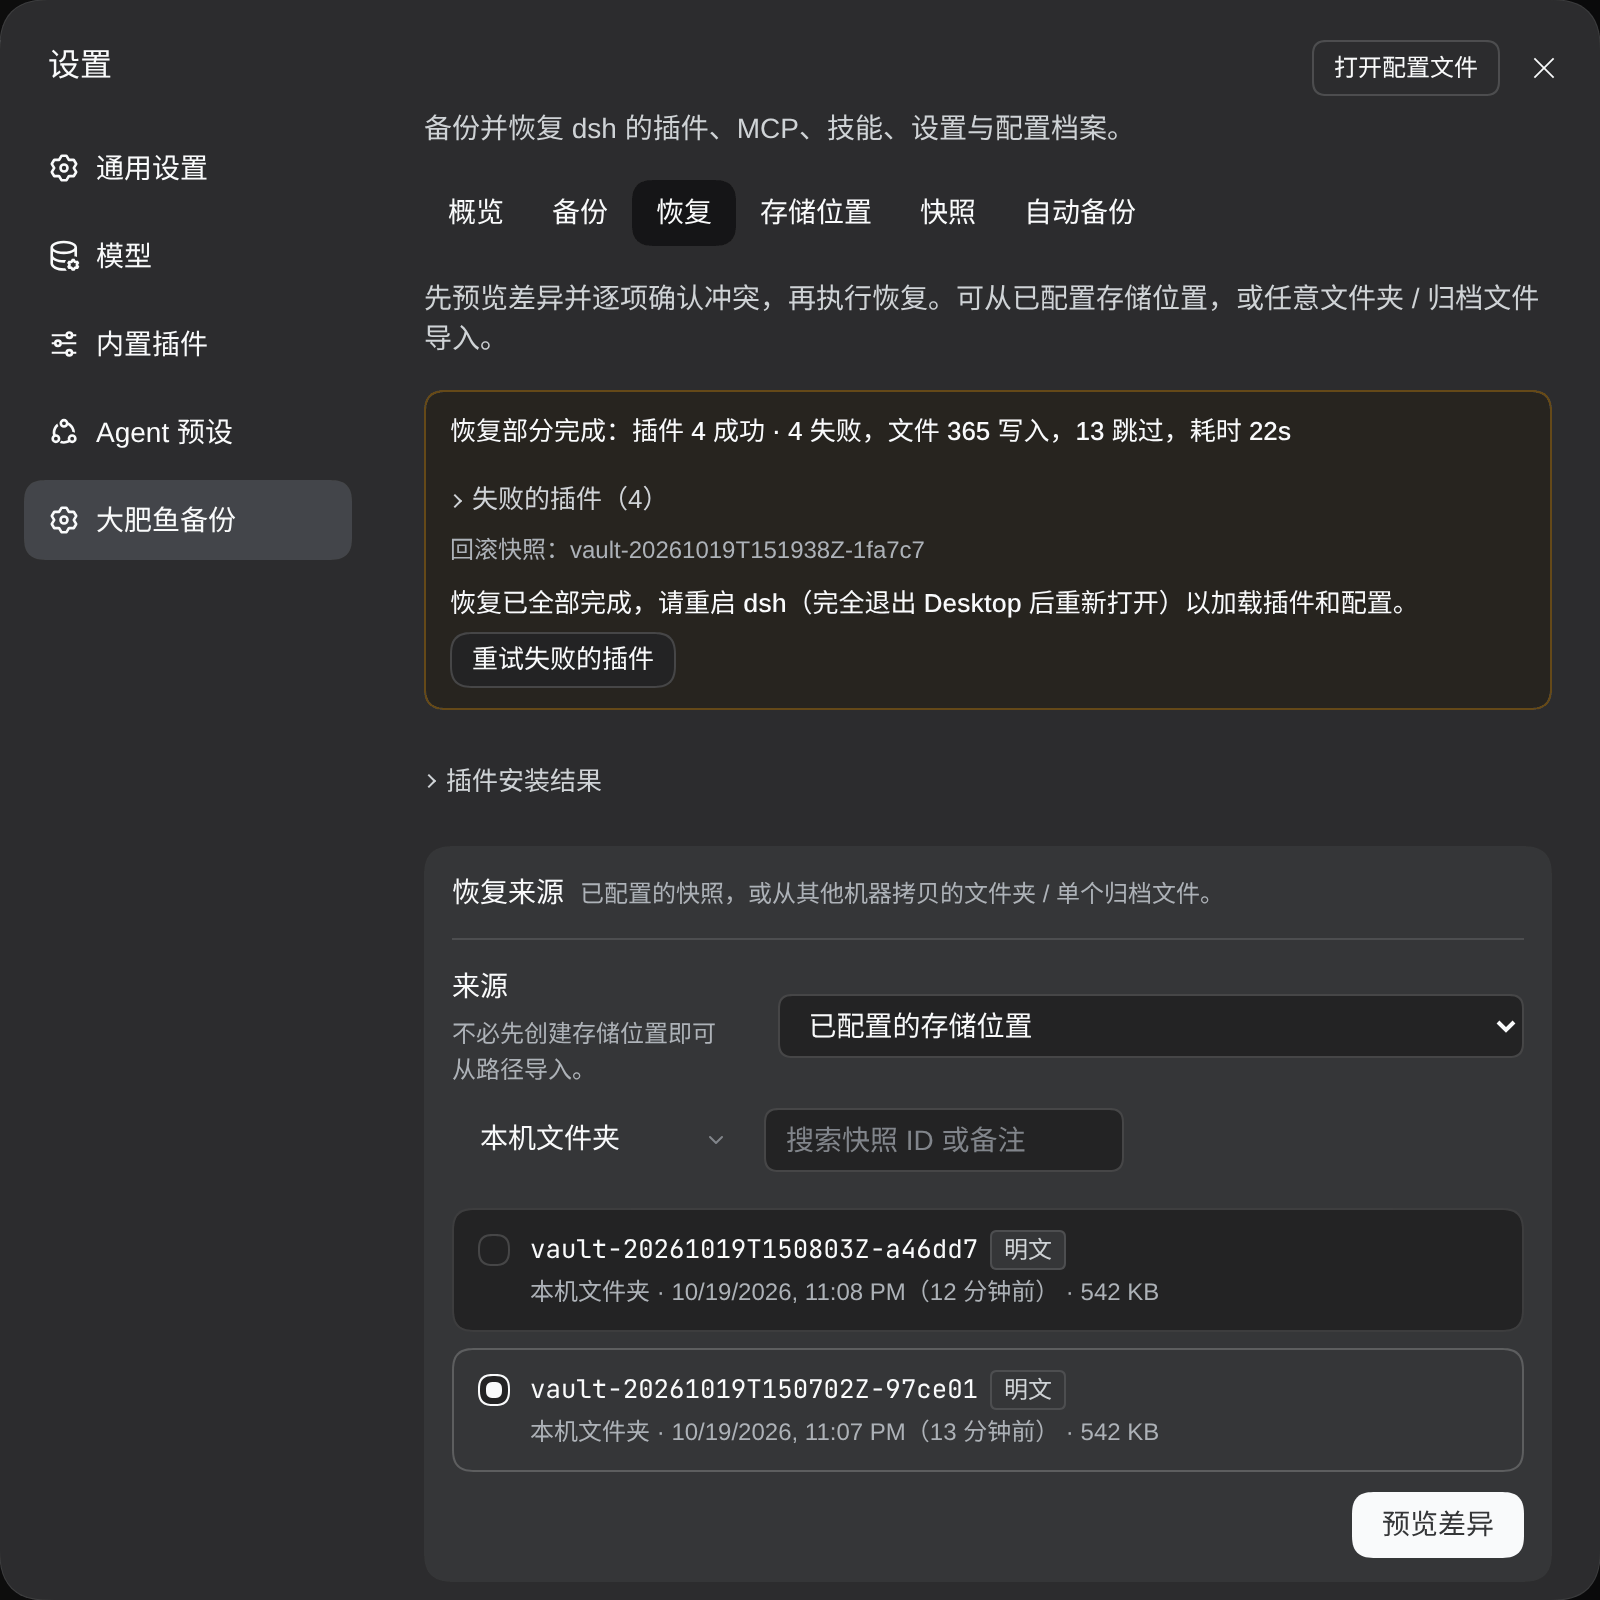
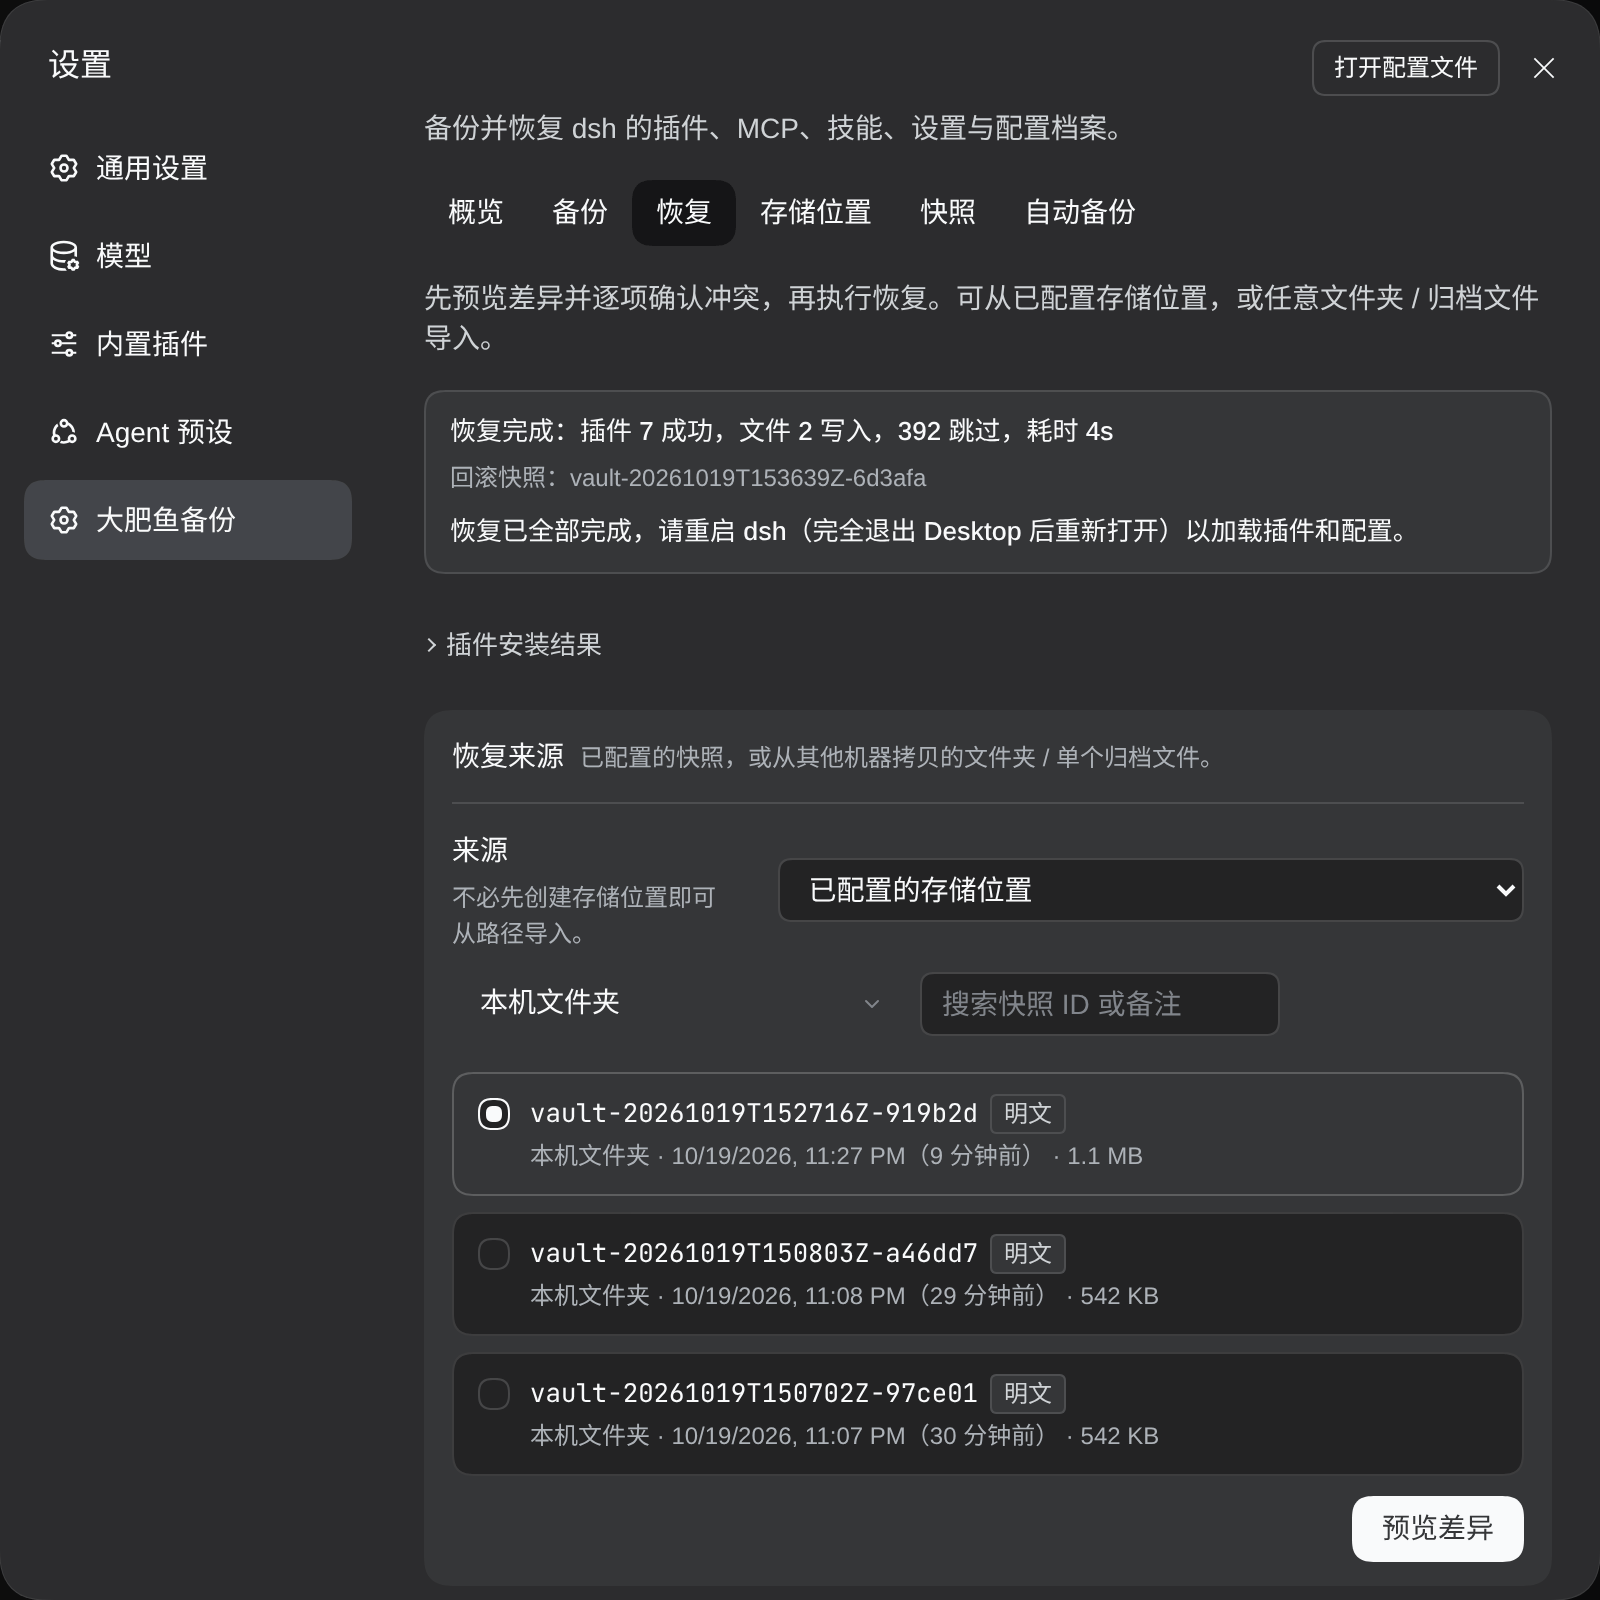
Restart notice by restore outcome (full/partial/failed); restore filter no longer defaults to rollback snapshots; full-success and partial screenshots

diff --git a/src/client/components/RestorePanel.tsx b/src/client/components/RestorePanel.tsx
@@ -3,6 +3,7 @@ import type { ConflictStrategy, DiffItem, RestorePreview, RestoreResult, Snapsho
 import { useT, type Translate } from '../i18n.js'
 import { formatBytes, formatDateTime, relativeLabel } from '../lib/format.js'
 import { newestFirst } from '../lib/targets.js'
+const ROLLBACK_TARGET_ID = 'local-rollback'
 import { localizeNotice, pluginRawDetail, pluginReasonText } from '../notices.js'
 import { PathPicker, type FsBrowser } from './PathPicker.js'
 import { DiffGroups } from './DiffGroups.js'
@@ -152,16 +153,21 @@ export function RestorePanel({
   const targetLabel = (id: string): string => targets.find((t) => t.id === id)?.label ?? id
   const usingImport = sourceMode === 'import'
 
-  // Keep the target filter valid.
+  // Keep the target filter valid. "" (all locations) is a valid user choice; only the
+  // first default skips rollback snapshots so the newest real backup is preselected.
+  const filterInit = useRef(false)
   useEffect(() => {
-    if (usingImport) return
-    if (!targetId || !snapshots.some((s) => s.targetId === targetId)) {
-      const preferred = initialTargetId && snapshots.some((s) => s.targetId === initialTargetId)
-        ? initialTargetId
-        : snapshots[0]?.targetId ?? ''
-      setTargetId(preferred)
-    }
+    if (usingImport || !snapshots.length) return
+    if (filterInit.current && (targetId === '' || snapshots.some((s) => s.targetId === targetId))) return
+    filterInit.current = true
+    const has = (id?: string) => Boolean(id) && snapshots.some((s) => s.targetId === id)
+    const realFirst = [...snapshots].sort(newestFirst).find((s) => s.targetId !== ROLLBACK_TARGET_ID)
+    setTargetId(has(initialTargetId) ? initialTargetId! : realFirst?.targetId ?? '')
   }, [snapshots, targetId, initialTargetId, usingImport])
+  const extraTargetIds = useMemo(
+    () => [...new Set(snapshots.map((s) => s.targetId))].filter((id) => !targets.some((t) => t.id === id)),
+    [snapshots, targets],
+  )
 
   const filtered = useMemo(() => {
     const q = search.trim().toLowerCase()
@@ -352,6 +358,9 @@ export function RestorePanel({
                 <option value="">{tr('common.allTargets')}</option>
                 {targets.map((t) => (
                   <option key={t.id} value={t.id}>{t.label}</option>
+                ))}
+                {extraTargetIds.map((id) => (
+                  <option key={id} value={id}>{id === ROLLBACK_TARGET_ID ? tr('restore.rollbackTarget') : id}</option>
                 ))}
               </Select>
               <div style={{ width: 180 }}>

diff --git a/tests/restart-notice.test.ts b/tests/restart-notice.test.ts
@@ -1,0 +1,42 @@
+import { describe, it } from 'node:test'
+import assert from 'node:assert/strict'
+import { restartNotice } from '../src/client/restart-notice.js'
+import { translate } from '../src/client/i18n.js'
+import type { RestoreResult } from '../src/core/types.js'
+
+const base = (over: Partial<RestoreResult>): RestoreResult => ({ ok: true, applied: [], skipped: [], ...over }) as RestoreResult
+const row = (name: string, status: string) => ({ name, profile: 'desktop', status }) as never
+
+function text(lang: 'zh' | 'en', r: RestoreResult): string | null {
+  const n = restartNotice(r)
+  return n ? translate(lang, n.key, n.vars) : null
+}
+
+describe('restart notice by restore outcome', () => {
+  it('full success says fully finished', () => {
+    const r = base({ applied: ['a'] as never, pluginResults: [row('a', 'installed'), row('b', 'already-present')] })
+    assert.equal(text('zh', r), '恢复已全部完成，请重启 dsh（完全退出 Desktop 后重新打开）以加载插件和配置。')
+    assert.match(text('en', r)!, /fully finished/)
+  })
+  it('partial names the failure count and never says fully finished', () => {
+    const r = base({ ok: false, applied: ['a', 'b'] as never, pluginResults: [row('a', 'installed'), row('b', 'failed'), row('c', 'failed')] })
+    const zh = text('zh', r)!
+    assert.equal(zh, '恢复已结束，有 2 个插件安装失败。请重启 dsh（完全退出 Desktop 后重新打开）以加载已恢复的插件和配置；失败的插件可在下方重试。')
+    assert.doesNotMatch(zh, /全部完成/)
+    assert.match(text('en', r)!, /2 plugin\(s\) failed/)
+    assert.doesNotMatch(text('en', r)!, /fully/)
+  })
+  it('all plugins failed but files written is still partial', () => {
+    const r = base({ ok: false, applied: ['x'] as never, pluginResults: [row('a', 'failed')] })
+    assert.equal(restartNotice(r)?.key, 'summary.restartPartial')
+  })
+  it('aborted with files written mentions files and rollback', () => {
+    const r = base({ ok: false, applied: ['x', 'y', 'z'] as never })
+    assert.match(text('zh', r)!, /已写入 3 个文件.*回滚/)
+    assert.match(text('en', r)!, /3 file\(s\) were already written.*rollback/)
+  })
+  it('nothing restored shows no restart prompt', () => {
+    assert.equal(restartNotice(base({ ok: false })), null)
+    assert.equal(restartNotice(base({ ok: false, pluginResults: [row('a', 'failed')] })), null)
+  })
+})

diff --git a/src/client/i18n.ts b/src/client/i18n.ts
@@ -44,6 +44,7 @@ const zh = {
   'common.delete': '删除',
   'common.default': '默认',
   'common.allTargets': '全部存储位置',
+  'restore.rollbackTarget': '回滚快照（恢复前自动生成）',
   'common.target': '存储位置',
   'common.snapshot': '快照',
   'common.size': '大小',
@@ -281,6 +282,8 @@ const zh = {
   'job.stage.restore.encrypt': '加密',
   'job.stage.restore.upload': '保存',
   'summary.restartDsh': '恢复已全部完成，请重启 dsh（完全退出 Desktop 后重新打开）以加载插件和配置。',
+  'summary.restartPartial': '恢复已结束，有 {count} 个插件安装失败。请重启 dsh（完全退出 Desktop 后重新打开）以加载已恢复的插件和配置；失败的插件可在下方重试。',
+  'summary.restartFailedWritten': '恢复未完成，但已写入 {files} 个文件。可以用上面的回滚快照撤销这些变更；如果保留它们，请重启 dsh（完全退出 Desktop 后重新打开）使其生效。',
   'summary.restore.ok': '恢复完成',
   'summary.restore.partial': '恢复部分完成',
   'summary.restore.failed': '恢复失败',
@@ -560,6 +563,7 @@ const en: Record<MessageKey, string> = {
   'common.delete': 'Delete',
   'common.default': 'Default',
   'common.allTargets': 'All storage locations',
+  'restore.rollbackTarget': 'Rollback snapshots (taken before restores)',
   'common.target': 'Storage location',
   'common.snapshot': 'Snapshot',
   'common.size': 'Size',
@@ -793,6 +797,8 @@ const en: Record<MessageKey, string> = {
   'job.stage.restore.encrypt': 'Encrypting',
   'job.stage.restore.upload': 'Saving',
   'summary.restartDsh': 'Restore has fully finished. Restart dsh (quit Desktop completely and reopen it) to load the plugins and settings.',
+  'summary.restartPartial': 'Restore finished, but {count} plugin(s) failed to install. Restart dsh (quit Desktop completely and reopen it) to load the restored plugins and settings; you can retry the failed plugins below.',
+  'summary.restartFailedWritten': 'Restore did not complete, but {files} file(s) were already written. You can undo them with the rollback snapshot above; if you keep them, restart dsh (quit Desktop completely and reopen it) for them to take effect.',
   'summary.restore.ok': 'Restore complete',
   'summary.restore.partial': 'Restore partly complete',
   'summary.restore.failed': 'Restore failed',

diff --git a/src/client/restart-notice.ts b/src/client/restart-notice.ts
@@ -1,0 +1,24 @@
+import type { RestoreResult } from '../core/types.js'
+
+export type RestartNotice =
+  | { key: 'summary.restartDsh'; vars?: undefined }
+  | { key: 'summary.restartPartial'; vars: { count: number } }
+  | { key: 'summary.restartFailedWritten'; vars: { files: number } }
+
+/**
+ * Which restart prompt to show under a restore summary, or null for none.
+ * - everything restored and installed  → full-success notice
+ * - files written but some plugins failed → partial notice with the failure count
+ * - nothing written → no prompt (nothing changed on disk)
+ * - aborted after writing files, no plugin outcome → mention files + rollback
+ */
+export function restartNotice(r: RestoreResult): RestartNotice | null {
+  const rows = r.pluginResults ?? []
+  const failed = rows.filter((x) => x.status === 'failed').length
+  const good = rows.length - failed
+  const files = r.applied?.length ?? 0
+  if (!failed && r.ok !== false) return { key: 'summary.restartDsh' }
+  if (failed && (good > 0 || files > 0)) return { key: 'summary.restartPartial', vars: { count: failed } }
+  if (files > 0) return { key: 'summary.restartFailedWritten', vars: { files } }
+  return null
+}

diff --git a/src/client/components/ResultSummary.tsx b/src/client/components/ResultSummary.tsx
@@ -2,6 +2,7 @@ import type { BackupResult, RestoreResult } from '../../core/types.js'
 import { useT } from '../i18n.js'
 import { formatBytes } from '../lib/format.js'
 import { pluginReasonText } from '../notices.js'
+import { restartNotice } from '../restart-notice.js'
 import { Banner, Button } from './ui.js'
 
 export function formatDuration(ms: number | undefined): string {
@@ -47,6 +48,7 @@ export function RestoreSummary({
   const tr = useT()
   const state = restoreState(result)
   const failedRows = (result.pluginResults ?? []).filter((r) => r.status === 'failed')
+  const notice = restartNotice(result)
   return (
     <Banner
       tone={state === 'ok' ? 'ok' : state === 'partial' ? 'warn' : 'error'}
@@ -71,7 +73,7 @@ export function RestoreSummary({
         </details>
       ) : null}
       {result.rollbackSnapshotId ? <div className="dv-hint">{tr('restore.rollbackCreated', { id: result.rollbackSnapshotId })}</div> : null}
-      <p className="dv-restart-notice">{tr('summary.restartDsh')}</p>
+      {notice ? <p className="dv-restart-notice">{tr(notice.key, notice.vars)}</p> : null}
       {detail ? <div className="dv-hint">{detail}</div> : null}
     </Banner>
   )

diff --git a/README.md b/README.md
@@ -47,7 +47,7 @@ It lives inside dsh as a Settings page (**Settings → 大肥鱼备份**), works
 | **After restore** | **Built-in folder browser** |
 | <img src="docs/screenshots/restore-complete.png" alt="Restore summary with restart notice"> | <img src="docs/screenshots/folder-browser.png" alt="Folder browser"> |
 
-Light theme follows dsh: [overview-light.png](docs/screenshots/overview-light.png).
+If some plugins fail to install, the summary says how many and offers a retry instead: [restore-partial.png](docs/screenshots/restore-partial.png). Light theme follows dsh: [overview-light.png](docs/screenshots/overview-light.png).
 
 ## Install
 
@@ -105,9 +105,9 @@ After building, the CLI is `node lib/cli/index.js` (or `npm link` to get `dsh-va
 2. Install dsh-vault as above.
 3. Settings → 大肥鱼备份 → **恢复**. Choose the snapshot, or point it at the folder/file you copied over.
 4. Click **预览差异**, review the changes, then **恢复**.
-5. When it says 恢复已全部完成, fully quit Desktop and reopen it.
+5. Fully quit Desktop and reopen it when the summary asks you to.
 
-If a plugin failed (offline, registry blocked), click **重试失败的插件** once the network is fixed.
+If some plugins failed (offline, registry blocked), the summary says how many. You can still restart to load everything else, and click **重试失败的插件** once the network is fixed.
 
 CLI equivalent:
 
